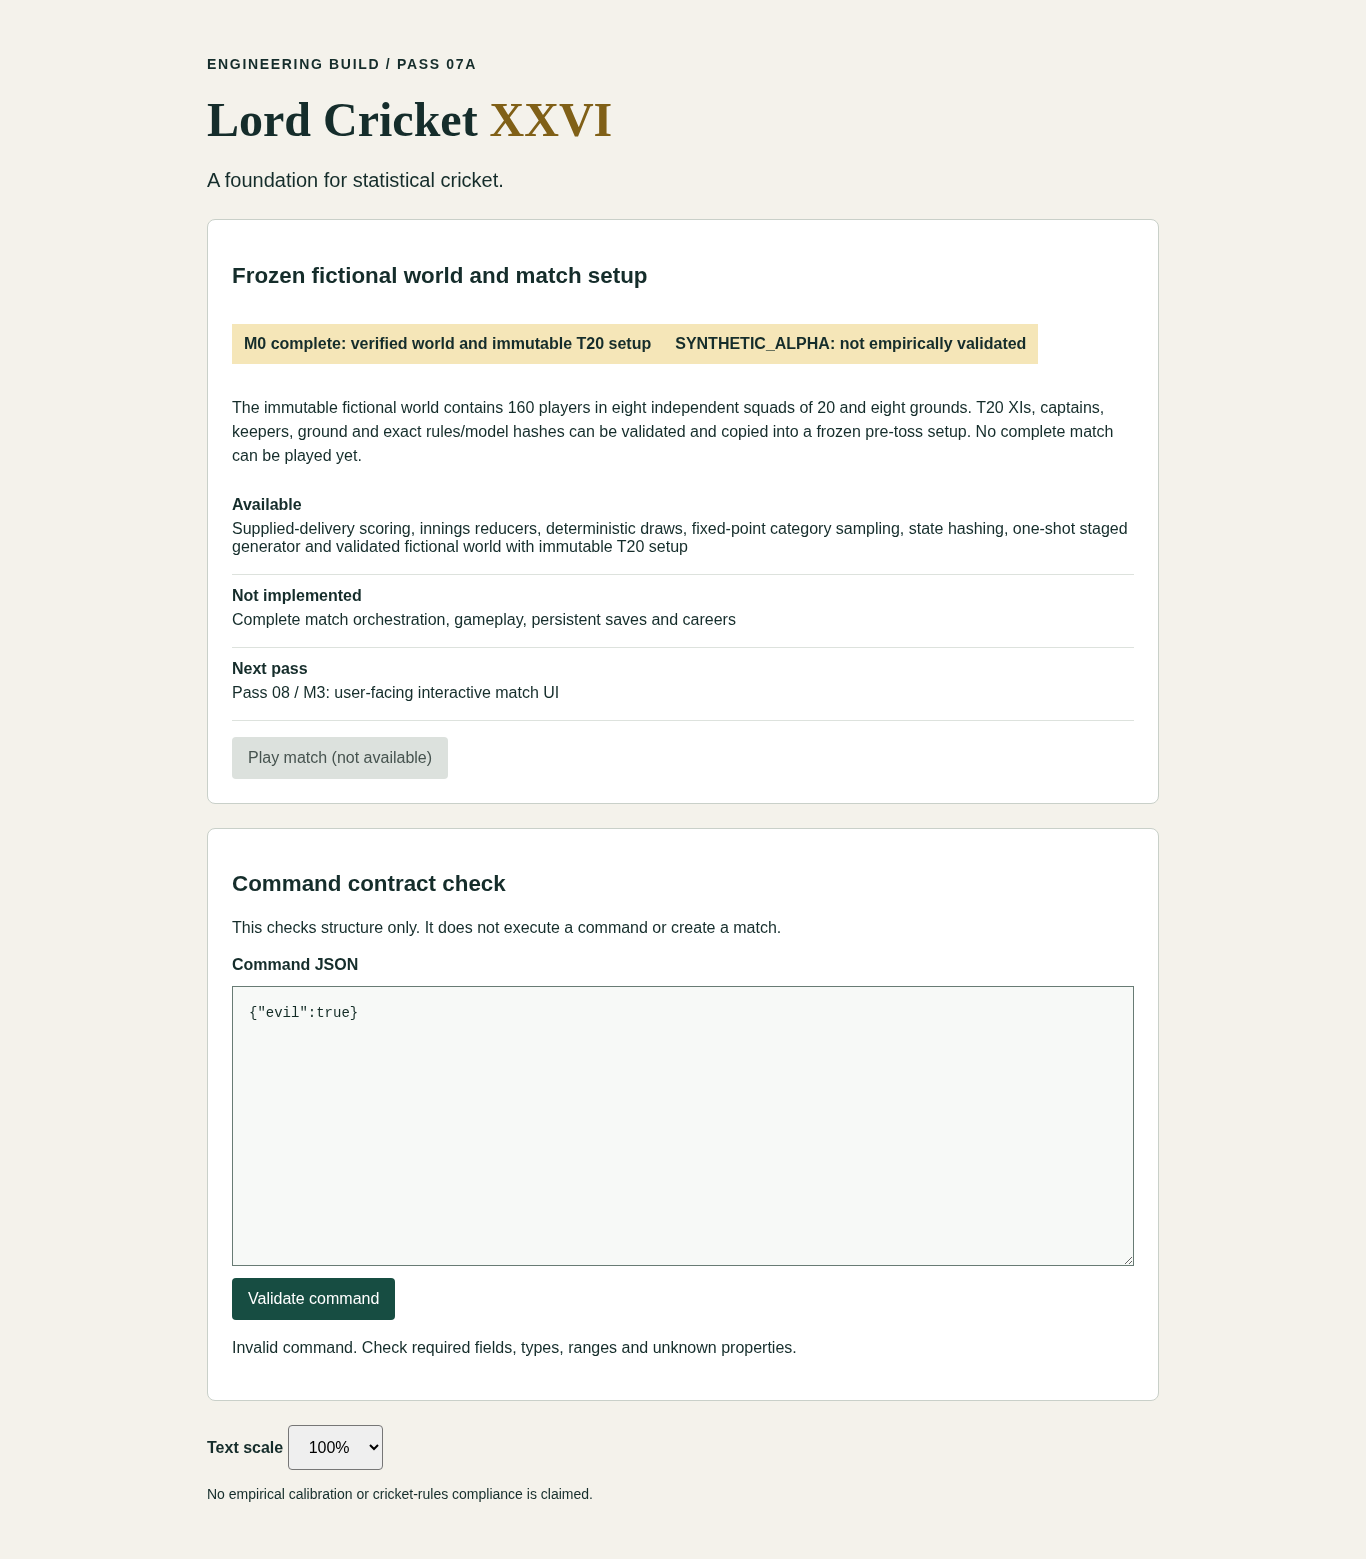
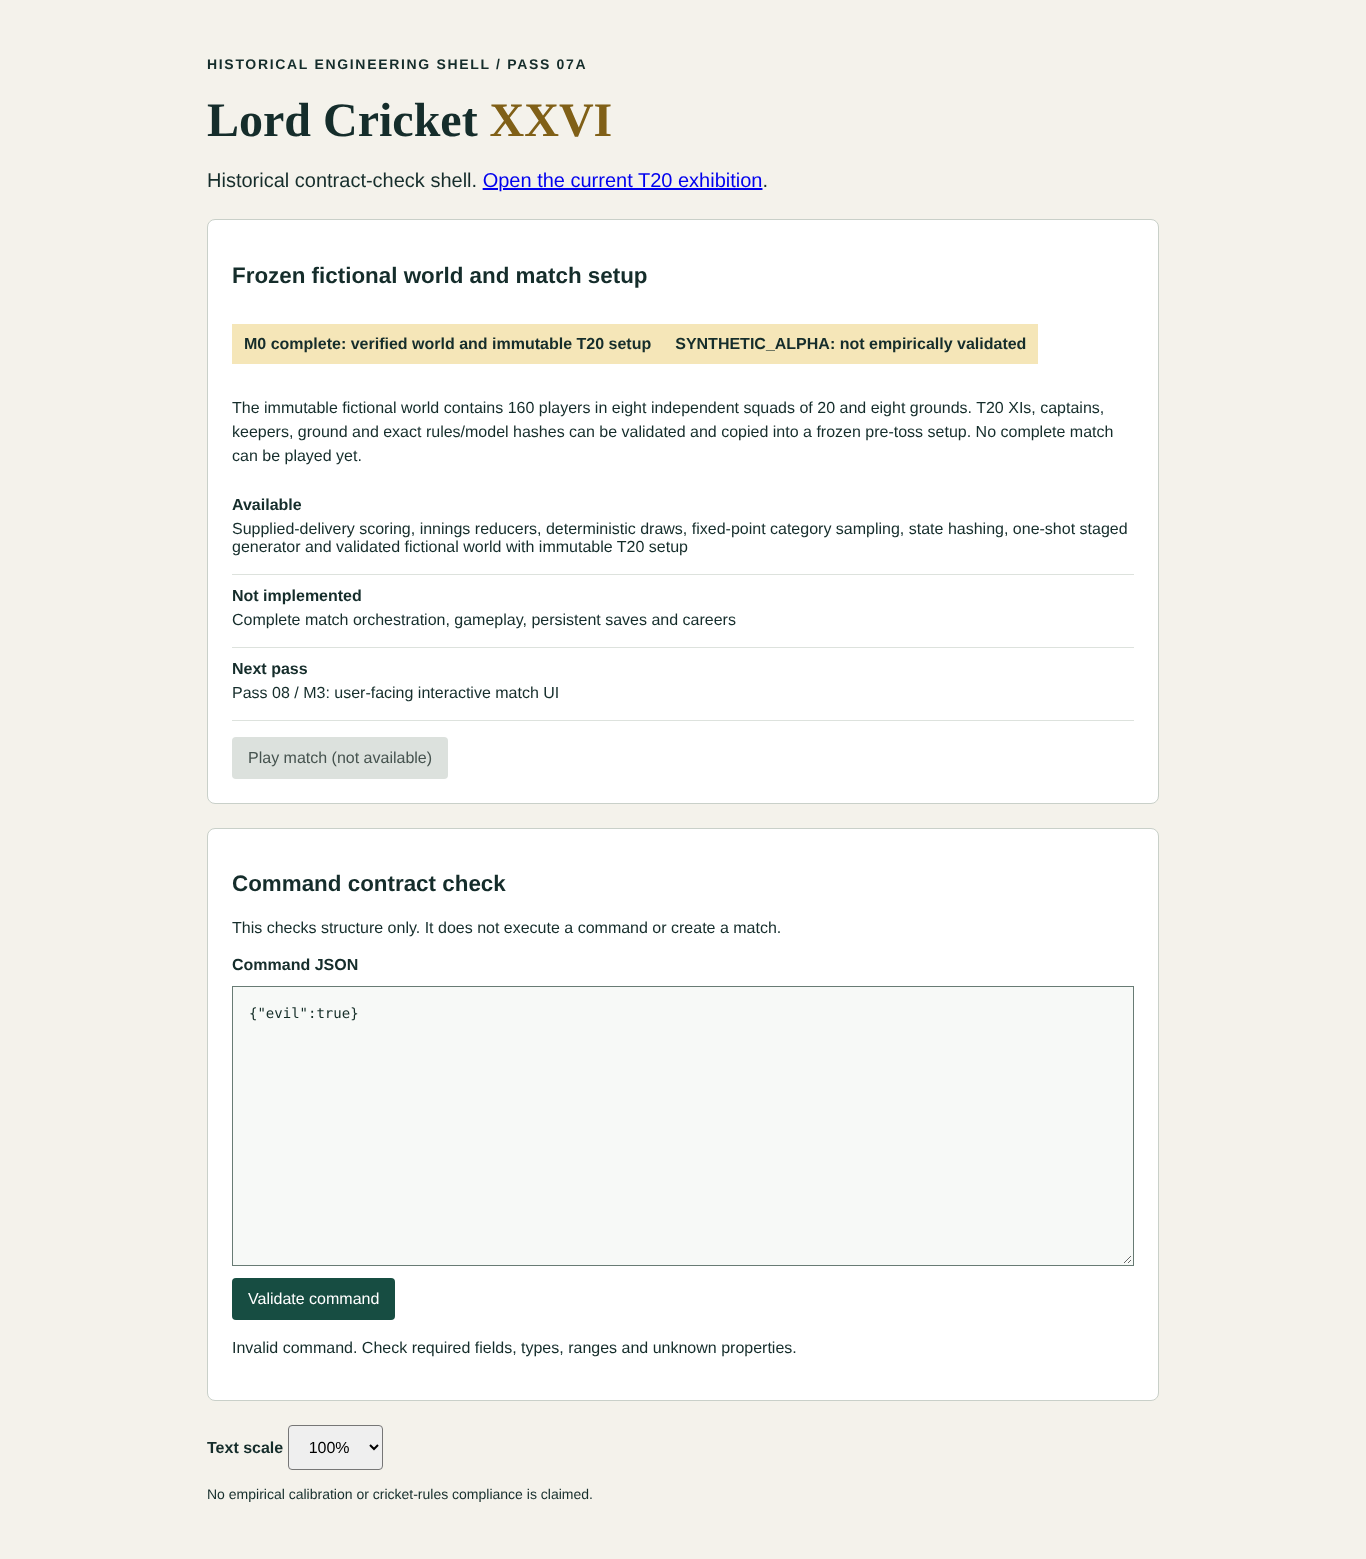
Take manual control after recovery before stepping the match
Hosted Windows Firefox showed the recovered tab's re-enabled AI opponent leaving
the human candidate buttons disabled while it acted. The spec now takes manual
control first, as the original tab did.

Claude-Session: https://claude.ai/code/session_01JUtpt8sfBb8fADukiUJLPG

Changed region(s): [[0.1537, 0.0924, 0.5534, 0.1232], [0.1537, 0.0308, 0.3382, 0.0616], [0.369, 0.0308, 0.3997, 0.0616]]

diff --git a/tests/ui/managed-recovery.spec.ts b/tests/ui/managed-recovery.spec.ts
@@ -78,6 +78,16 @@ async function expectRestored(page: Page, savedRevision: string) {
   await expect.poll(async () => Number(await page.locator("#decision").getAttribute("data-revision")), { timeout: 60_000 }).toBeGreaterThanOrEqual(Number(savedRevision));
 }
 
+/**
+ * The recovered tab re-enables the AI opponent, whose decisions leave the human candidate buttons disabled
+ * until it has acted. The original tab played with manual control, so the spec takes it back before stepping.
+ */
+async function takeManualControl(page: Page) {
+  await page.getByLabel("Tactical captain").selectOption("");
+  await expect(page.locator("#decision")).toHaveAttribute("aria-busy", "false");
+  await settledRevision(page);
+}
+
 async function awaitWritable(page: Page) {
   // The closed tab's writer lease lasts up to 12 s. The page retries on its own and must become writable.
   await expect(page.getByTestId("save-status")).not.toContainText("Read only", { timeout: 45_000 });
@@ -108,6 +118,7 @@ test("a standard managed match is recovered in a fresh tab and its result applie
   await expect(fresh.getByText(BANNER)).toBeVisible();
   await expect(fresh.getByRole("button", { name: "New exhibition" })).toHaveCount(0);
   await awaitWritable(fresh);
+  await takeManualControl(fresh);
   await playToEnd(fresh);
   await fresh.getByRole("button", { name: "Return result to career" }).click();
   await expect(fresh.getByText(COMPLETED, { exact: true })).toBeVisible({ timeout: 60_000 });
@@ -165,6 +176,7 @@ test("an imported-roster managed match is recovered in a fresh tab and applies e
   await expectRestored(fresh, revision);
   await expect(fresh.getByText(BANNER)).toBeVisible();
   await awaitWritable(fresh);
+  await takeManualControl(fresh);
   await playToEnd(fresh);
   await fresh.getByRole("button", { name: "Return result to career" }).click();
   await expect(fresh.getByText(/\d+\/56 fixtures/)).toBeVisible({ timeout: 60_000 });
@@ -198,6 +210,7 @@ test("a match survives closing the whole browser with a retained profile", async
     await expectRestored(reopened, revision);
     await expect(reopened.getByText(BANNER)).toBeVisible();
     await expect(reopened.getByTestId("save-status")).not.toContainText("Read only", { timeout: 45_000 });
+    await takeManualControl(reopened);
     await playToEnd(reopened);
     await reopened.getByRole("button", { name: "Return result to career" }).click();
     await expect(reopened.getByText(COMPLETED, { exact: true })).toBeVisible({ timeout: 60_000 });
